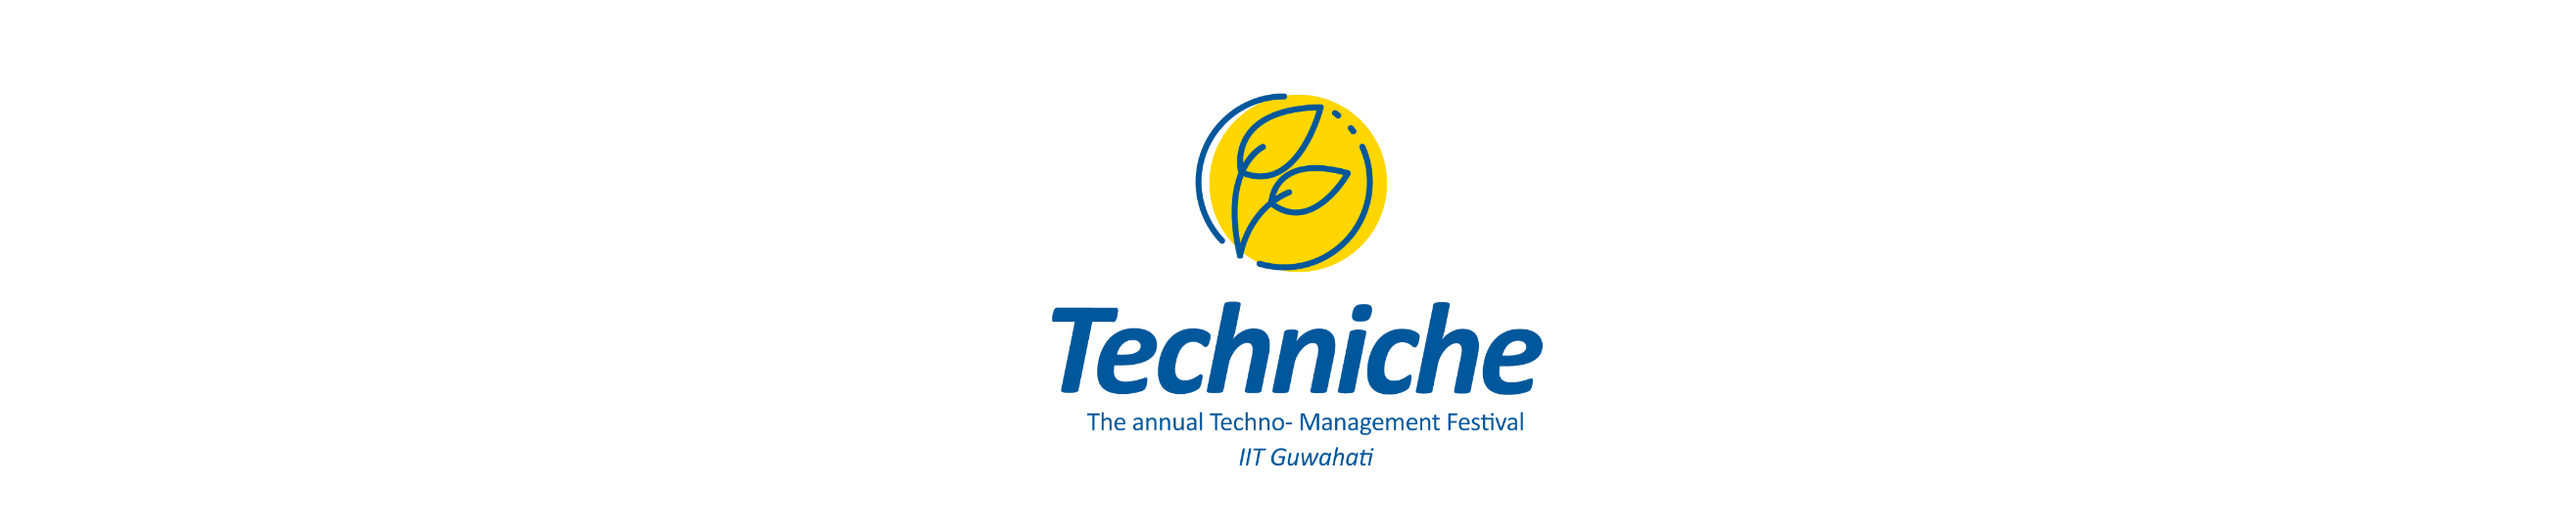
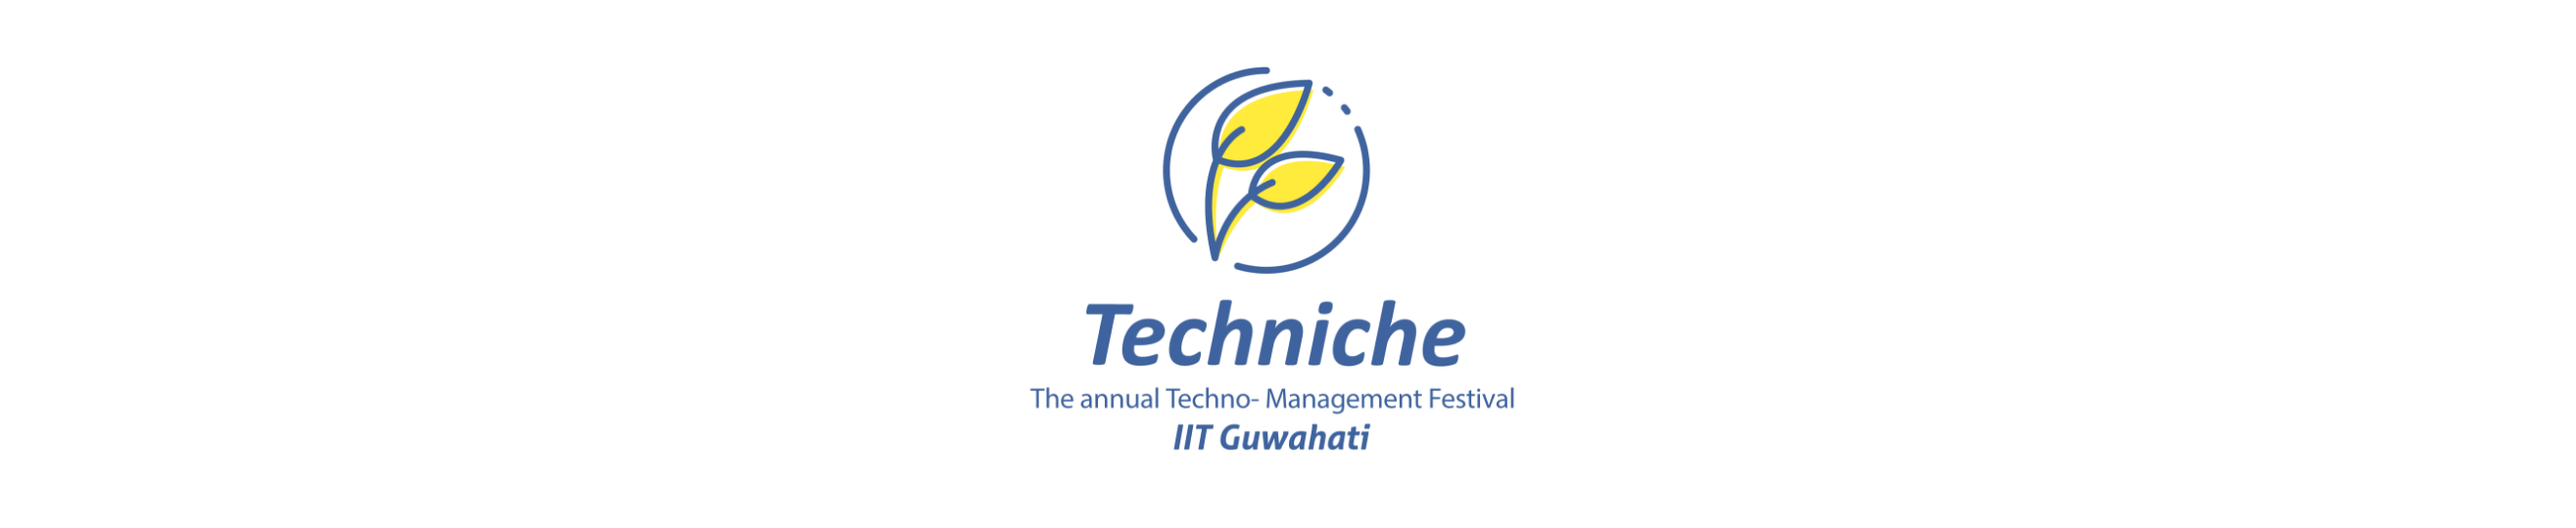
techniche update

Changed region(s): [[0.4053, 0.563, 0.6236, 0.8889], [0.4365, 0.1185, 0.5612, 0.5333]]

diff --git a/index.html b/index.html
@@ -219,7 +219,7 @@
                   <!-- <i class="fa fa-plus fa-3x"></i> -->
                 </div>
               </div>
-              <img class="img-fluid" src="img/portfolio/photo.thumb.png" alt="">
+              <img class="img-fluid" src="img/portfolio/tech.thumb.png" alt="">
             </a>
             <div class="portfolio-caption">
               <h5>Graphic Design</h5>
@@ -1484,7 +1484,7 @@ DESIGN
                   <img class="img-fluid d-block mx-auto" src="img/portfolio/tech.1.png" alt="">
                   <!-- <p>Use this area to describe your project. Lorem ipsum dolor sit amet, consectetur adipisicing elit. Est blanditiis dolorem culpa incidunt minus dignissimos deserunt repellat aperiam quasi sunt officia expedita beatae cupiditate, maiores repudiandae, nostrum, reiciendis facere nemo!</p> -->
 
-                  <div class="toptext" id="toptextmsr">
+
                     <div class="padded">
                     <span class="projectTitle">Project Title: Graphic Design for Techniche</span><br>
                     <div class="text1">
@@ -1494,118 +1494,65 @@ DESIGN
 I worked in a team of 10 designers and led the team along with 3 other leads. I was responsible for conceptualizing and creating various graphic works to promote the festival and its events globally.
                   </div>
                 </div>
-              </div>
+
+
 
 <div class="padded">
-    <img class="img-fluid d-block mx-auto" src="img/portfolio/2.2.png" alt="">
-    <img class="img-fluid d-block mx-auto" src="img/portfolio/2.3.png" alt="">
-                <div class="heading">INDIAN HEALTHCARE - OPPORTUNITY AREAS</div>
-                <div class="source">
-                  Source: KPMG India, Review of National Health Policy
+
+                <div class="miniheading"><br><br><br>TECHNICHE COUNTDOWN</div>
+                <div>
+<br>
+<br>
+<br>
+                <img class="img-fluid d-block mx-auto" src="img/portfolio/tech.2.png" alt="">
+                <img class="img-fluid d-block mx-auto" src="img/portfolio/tech.3.png" alt="">
+                <img class="img-fluid d-block mx-auto" src="img/portfolio/tech.4.png" alt="">
+                <img class="img-fluid d-block mx-auto" src="img/portfolio/tech.5.png" alt="">
+                <img class="img-fluid d-block mx-auto" src="img/portfolio/tech.6.png" alt="">
+                <img class="img-fluid d-block mx-auto" src="img/portfolio/tech.7.png" alt="">
+                <img class="img-fluid d-block mx-auto" src="img/portfolio/tech.8.png" alt="">
+                <img class="img-fluid d-block mx-auto" src="img/portfolio/tech.9.png" alt="">
+                <img class="img-fluid d-block mx-auto" src="img/portfolio/tech.10.png" alt="">
+                <img class="img-fluid d-block mx-auto" src="img/portfolio/tech.11.png" alt="">
+                <img class="img-fluid d-block mx-auto" src="img/portfolio/tech.12.png" alt="">
+                <img class="img-fluid d-block mx-auto" src="img/portfolio/tech.14.png" alt="">
                 </div>
-                <div class="content">The promise of 'right to health' is central to every target envisioned under millennium development goals.
-  </div>
-  <img class="img-fluid d-block mx-auto" src="img/portfolio/2.4.png" alt="">
-    <div class="content">Availability of Healthcare facilities is highly skewed towards urban centers when the urban population accounts for only 28% of the country's entire population. The remaining 72% has access to only one-third of the total beds available in the country.
-    </div>
-      <img class="img-fluid d-block mx-auto" src="img/portfolio/2.5.png" alt="">
 
-<div class="content">The Indian Healthcare System is not being able to keep up with the demands of the growing population
-</div>
-<div class="heading">PROBLEM STATEMENT AND OBJECTIVES</div>
-<div class="content">Problem Statement was given to us by Microsoft. We explored and redefined the Problem Statement based on our User Study. We also carefully defined our objectives based on our study.
-</div>
-<div class="heading">USER STUDY</div>
-<div class="content">First, we learned about the problems areas and medical experiences of various people. We spoke to around 15 people and it gave us a good idea of what should be the key objectives that our design intends to meet. <br><br>
-We also interviewed around 10 doctors of varied specialties to learn more about the problem space and opportunity areas. We learned about the methodologies used to offer consultation to the patients.<br><br>
-We took the help of three medical students to form the structure of our product and to add the necessary details. Their inputs were highly valuable.
-</div>
-</div>
-<div class="unpaddedcontent">
-<div class="padded">
-<div class="miniheading">
-  LEARNING
-</div>
-<div class="miniheadcontent">
-1. Identifying user groups that shall provide valuable information that shall help us design the product. <br>
-2. Forming a questionnaire. <br>
-3. Conducting an interview. <br>
-4. Analysing the information obtained. <br>
-5. Forming objectives based on the inputs. <br>
-</div>
-</div>
+
+                <div class="miniheading"><br><br><br>EVENTS</div>
+                <div>
+<br>
+<br>
+<br>
+                <!-- <img class="img-fluid d-block mx-auto" src="img/portfolio/tech.14.png" alt=""> -->
+                <img class="img-fluid d-block mx-auto" src="img/portfolio/tech.15.png" alt="">
+                <img class="img-fluid d-block mx-auto" src="img/portfolio/tech.16.png" alt="">
+                <img class="img-fluid d-block mx-auto" src="img/portfolio/tech.17.png" alt="">
+                <img class="img-fluid d-block mx-auto" src="img/portfolio/tech.18.png" alt="">
+                <img class="img-fluid d-block mx-auto" src="img/portfolio/tech.19.png" alt="">
+                <img class="img-fluid d-block mx-auto" src="img/portfolio/tech.20.png" alt="">
+                <img class="img-fluid d-block mx-auto" src="img/portfolio/tech.21.png" alt="">
+                <img class="img-fluid d-block mx-auto" src="img/portfolio/tech.22.png" alt="">
+                </div>
+
+
+                <div class="miniheading"><br><br><br>NATIONAL GIRL CHILD DAY</div>
+                <div>
+<br>
+<br>
+<br>
+                <!-- <img class="img-fluid d-block mx-auto" src="img/portfolio/tech.14.png" alt=""> -->
+                <img class="img-fluid d-block mx-auto" src="img/portfolio/tech.23.png" alt="">
+                <img class="img-fluid d-block mx-auto" src="img/portfolio/tech.24.png" alt="">
+                <img class="img-fluid d-block mx-auto" src="img/portfolio/tech.25.png" alt="">
+                <img class="img-fluid d-block mx-auto" src="img/portfolio/tech.26.png" alt="">
+                <img class="img-fluid d-block mx-auto" src="img/portfolio/tech.27.png" alt="">
+                <img class="img-fluid d-block mx-auto" src="img/portfolio/tech.28.png" alt="">
+
+                </div>
 </div>
 
-<div class="padded">
-  <div class="heading">
-    CONCEPTUALISATION
-  </div>
-  <div class="content italy">
-    Based on the formed objectives, the concept was detailed such that it best attended to each and every objective.
-  </div>
 
-<div class="miniheading">
-  INFORMATION ARCHITECTURE
-</div>
-<div class="miniheadcontent">
-  A detailed Information Architecture was made. Iterations for the same were done after various discussions with our mentors in view of the requirements and constraints of Microsoft and other collaborating organizations.
-</div>
-<div class="miniheading">
-  TASK FLOW
-</div>
-<div class="miniheadcontent">
-  Task flows for every task possible on our product were clearly defined. It helped figure out the loopholes or design gaps in our concept.
-</div>
-<div class="miniheading">
-  USER JOURNEY
-</div>
-<div class="miniheadcontent">
-  Based on the task flows, a complete user journey was defined to further detail out the concept.
-</div>
-</div>
-<div class="unpaddedcontent">
-<div class="padded">
-<div class="miniheading">
-  LEARNING
-</div>
-<div class="miniheadcontent">
-1. Identifying user groups that shall provide valuable information that shall help us design the product. <br>
-2. Forming a questionnaire. <br>
-3. Conducting an interview. <br>
-4. Analysing the information obtained. <br>
-5. Forming objectives based on the inputs. <br>
-</div>
-</div>
-</div>
-<div class="padded">
-  <div class="heading">
-    WIREFRAMING and INTERFACE DESIGNING
-  </div>
-  <div class="content">
-    Paper wireframes were designed for the interface being conceptualized. They were later digitalized on Balsamiq tool.<br>
-    High fidelity interface was later designed following 'Material Design' Guidelines proposed by Google. Efforts were made to make the product interactive and engaging.<br><br>
-The interface was then given to the developers for front-end development with specifications about each and every element used in the interface like: <br>
-1. Font<br>
-2. Spacing and dimensions through grid lines<br>
-3. Colors<br>
-4. Icons used
-  </div>
-</div>
-<div class="unpaddedcontent">
-<div class="padded">
-<div class="miniheading">
-  LEARNING
-</div>
-<div class="miniheadcontent">
-  1. A good idea about the 'Material Design' Guidelines. <br>
-  2. Learned to design an interface within the constraints of the developer. <br>
-  3. Learned about the requirements and expectations of a developer from a designer.<br>
-  4. Learned to coordinate effectively with the developers and Management officials.  <br>
-
-</div>
-</div>
-</div>
-<img class="img-fluid d-block mx-auto" src="img/portfolio/2.6.png" alt="">
 
 
 
